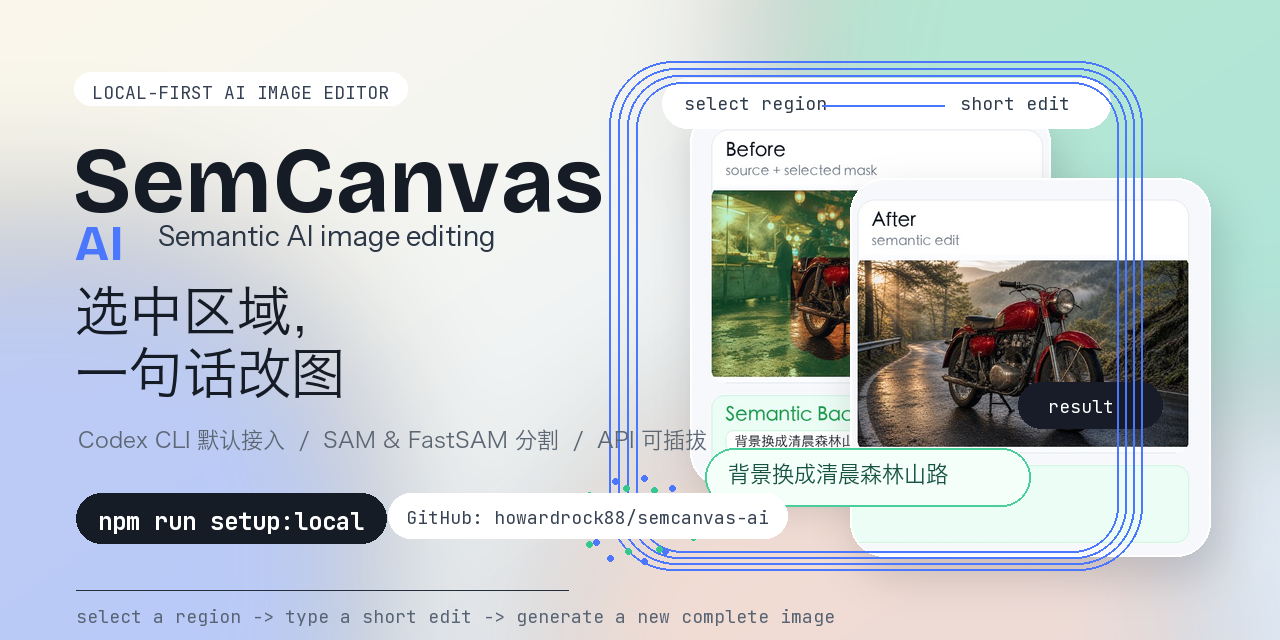
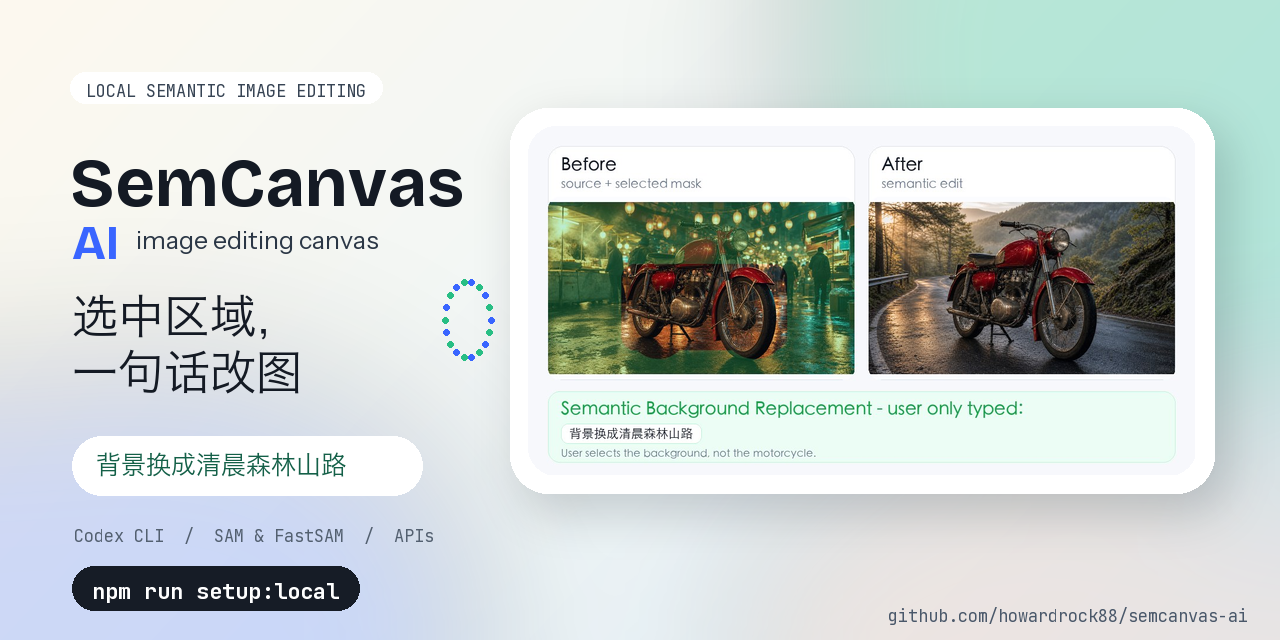
Redesign social preview layout

diff --git a/docs/social-preview-philosophy.md b/docs/social-preview-philosophy.md
@@ -1,9 +1,9 @@
-# Social Preview Design Philosophy: Semantic Glass
+# Social Preview Design Philosophy: Clean Semantic Compare
 
-Semantic Glass treats image editing as a layer of intention floating above a finished visual world. The composition should feel local-first, tactile, and technically precise, with translucent surfaces that imply masks, selections, and inference without explaining them. Space is generous and deliberate: one side speaks through bold product typography, the other side through layered before/after image cards that reveal the workflow at a glance.
+Clean Semantic Compare treats the launch image as a product demonstration, not a poster full of claims. The layout is split into a restrained identity block and one large proof card, so viewers understand the promise and see the before/after result without decoding overlapping fragments.
 
-Color behaves like semantic annotation. Blue marks model intelligence, green marks user selection, and warm cream keeps the tool approachable rather than sterile. The palette is calibrated for trust and clarity, with painstaking attention to contrast, image legibility, and share-card readability on mobile feeds.
+The right side carries the evidence. Instead of cropping the examples into decorative slices, the complete before/after comparison is presented as a single large card with generous margins. This makes the selected mask, generated result, and short instruction readable in GitHub, WeChat, and mobile feed previews.
 
-The visual rhythm is modular and engineered. Rounded panels, command pills, subtle grid points, and orbital mask markers create an artifact that feels meticulously crafted, as if every curve and spacing decision was adjusted by someone with deep product-design expertise. Text remains sparse and essential; the workflow is shown through spatial relationships rather than paragraphs.
+The color system remains precise: green signals user selection, blue signals AI transformation, and warm off-white keeps the product approachable. The composition should look meticulously crafted, with disciplined spacing, calm shadows, and no competing labels.
 
-The final work should feel like a premium local AI tool rather than a generic generative-art banner. It must appear carefully labored over: crisp edges, balanced hierarchy, disciplined typography, and enough visual intrigue that a viewer understands the product before reading the README.
+Text is deliberately minimal: the name, the promise, one short edit prompt, and the install command. Everything else is carried by the large visual comparison.